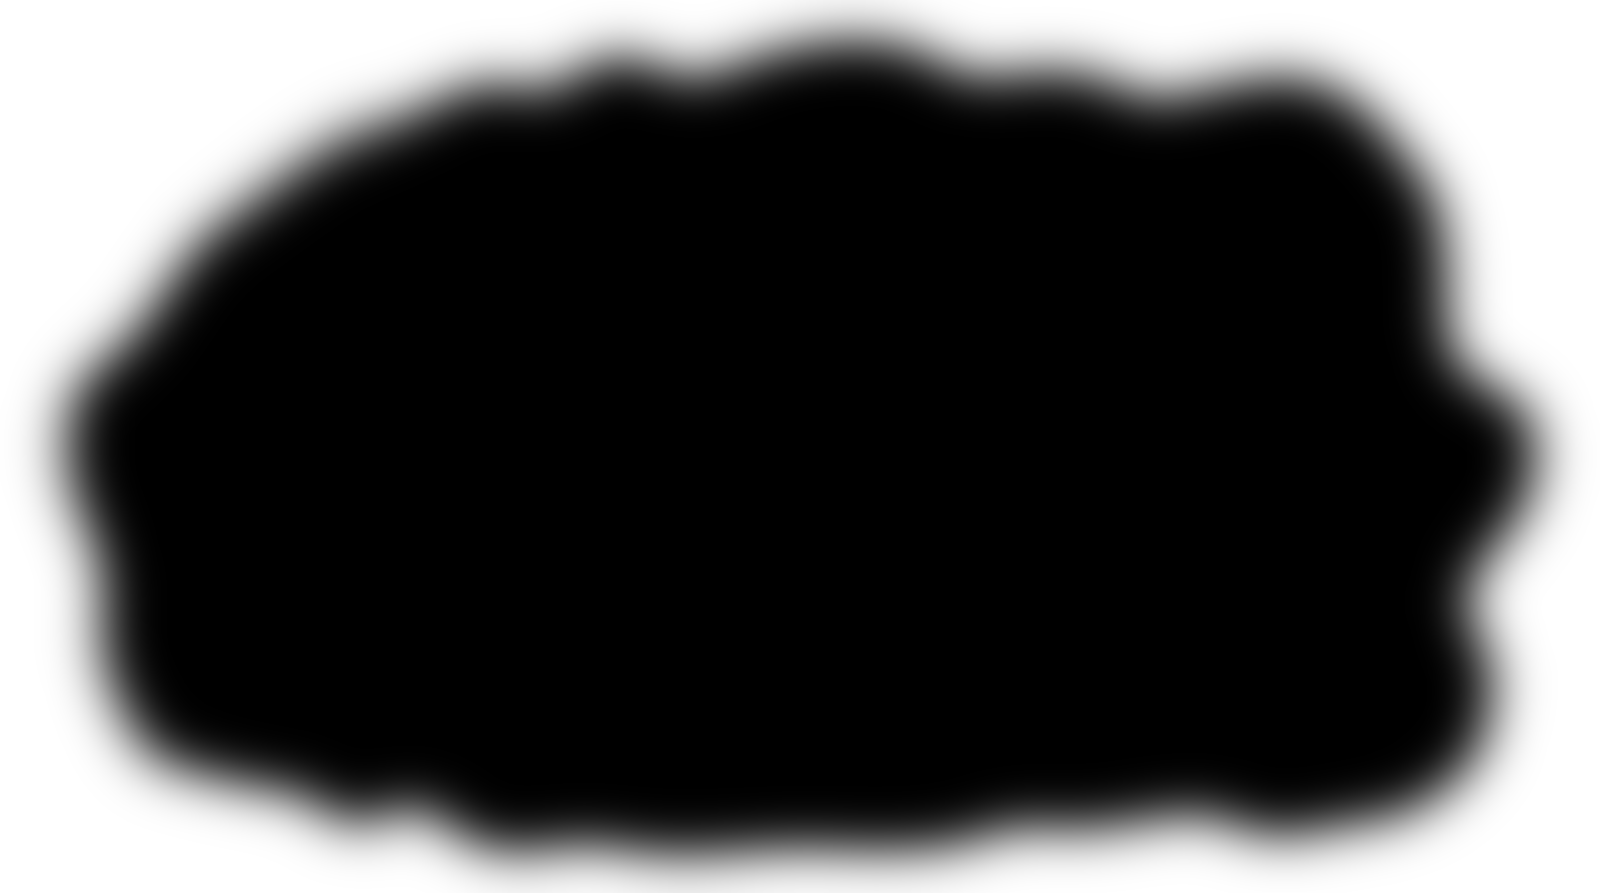
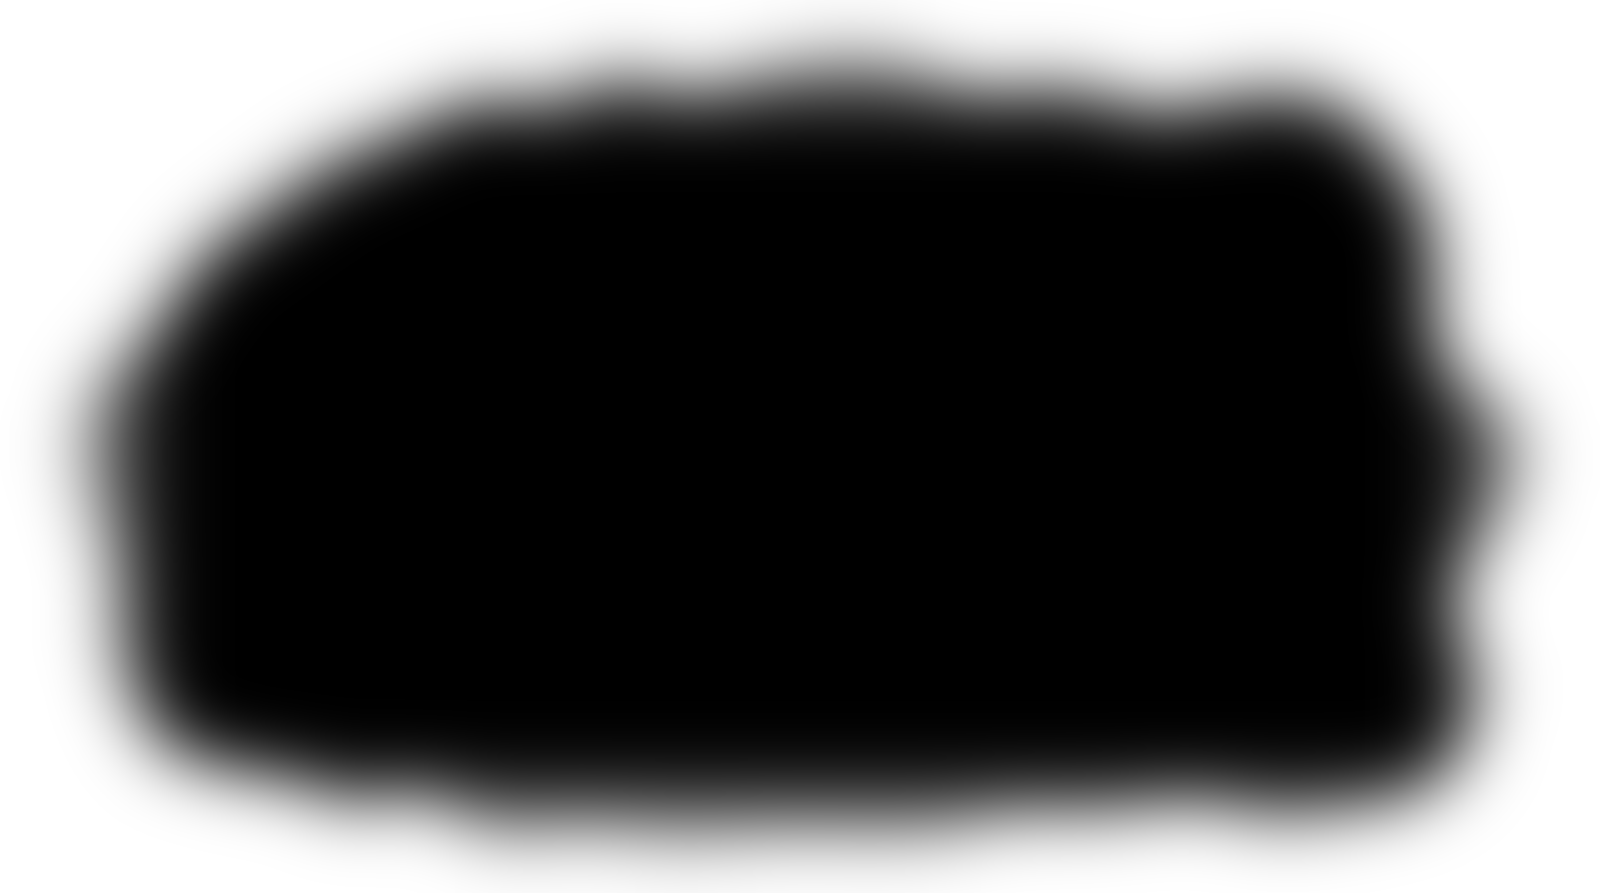
Obrázky putování v tmavém motivu zpět do ztracena (fresková maska přes masku podle tuše)
Claude-Session: https://claude.ai/code/session_01B7obWNd8t3eyi15XpW3dtB

Changed region(s): [[0.0, 0.0, 1.0, 0.9978]]

diff --git a/src/styles/essay.css b/src/styles/essay.css
@@ -900,11 +900,10 @@ html.pv-fresco .essay-hero img.pv-ink {
   mask-composite: intersect;
 }
 
-/* V tmavém motivu by krémový papír kolem tuše svítil jako svatozář: maska dvakrát přes sebe (alfa na druhou)
-   okraj stáhne blíž ke kresbě. */
+/* Tmavý motiv: fresková maska a maska podle tuše přes sebe, kresba se ztrácí do tmy (stav schválený majitelem). */
 html[data-theme='dark'] .essay-hero--live img.has-ink {
-  -webkit-mask-image: var(--pv-mask-ink), var(--pv-mask-ink);
-  mask-image: var(--pv-mask-ink), var(--pv-mask-ink);
+  -webkit-mask-image: var(--pv-mask), var(--pv-mask-ink);
+  mask-image: var(--pv-mask), var(--pv-mask-ink);
   -webkit-mask-size: 100% 100%, 100% 100%;
   mask-size: 100% 100%, 100% 100%;
   -webkit-mask-composite: source-in;

diff --git a/scripts/ink-masks.py b/scripts/ink-masks.py
@@ -44,10 +44,10 @@ for f in (files or sorted(glob.glob(os.path.join(src, '[0-9]*.jpg')))):
         uu = np.linspace(-1, 1, w)[None, :]; vv = np.linspace(-1, 1, h)[:, None]
         win = smooth(1.0, 0.55, np.sqrt((uu / 0.42) ** 2 + ((vv + 0.1) / 0.5) ** 2))
         s = np.maximum(s, big * win)
-    alpha = smooth(0.12, 0.7, s) ** 1.3  # dlouhý pozvolný přechod, okraj se ztrácí uvnitř tuše
+    alpha = smooth(0.25, 0.85, s) ** 1.6  # dlouhý pozvolný přechod, okraj se ztrácí uvnitř tuše
     u = np.linspace(0, 1, w)[None, :]; v = np.linspace(0, 1, h)[:, None]
-    alpha *= smooth(0, 0.06, np.minimum(u, 1 - u)) * smooth(0, 0.07, np.minimum(v, 1 - v))
-    m = Image.fromarray((alpha * 255).astype(np.uint8), 'L').filter(ImageFilter.GaussianBlur(w / 70))
+    alpha *= smooth(0, 0.12, np.minimum(u, 1 - u)) * smooth(0, 0.16, np.minimum(v, 1 - v))
+    m = Image.fromarray((alpha * 255).astype(np.uint8), 'L').filter(ImageFilter.GaussianBlur(w / 50))
     o = Image.new('LA', (w, h), 0); o.putalpha(m)
     name = os.path.basename(f).replace('.jpg', '.png')
     o.save(os.path.join(out, name), optimize=True)

diff --git a/docs/obrazky-putovani.md b/docs/obrazky-putovani.md
@@ -20,7 +20,7 @@ Stav 2026-11-23: styl nalezený po pěti kolech zkoušek (náhled `/putovani/nav
 - Masky: `maska/<slug>-N.png` podle tuše pro tmavý motiv (`python3 scripts/ink-masks.py`, pak zkopírovat z `navrh-obrazku/maska/`, nebo upravit cestu ve skriptu), `maska/freska.png` obecná.
 - Které putování obrázky má: `READY` v `src/lib/trail-images.ts`. Obrázky se ukážou jen u schválené eseje.
 - Rejstřík `/putovani/` má rozvržení karet ve dvou sloupcích s obrázkem nahoře (C, vybráno ze tří variant: A obraz za textem, B střídavé desky). Dokud nemají obrázky všechna putování, stojí vedle karty s obrázkem textové karty.
-- Na webu (2026-11-23): Bohové jako břemeno (katedrála ze žeber, kamenné víčko); Město, které dýchá (domy, které se otáčejí za chodcem; most z dlažby, kořenů, copů a prádla); Dům, ze kterého nejde odejít (měsíc jako zlatá klíčová dírka nad městečkem, okno uprostřed pláně s pokojem uvnitř). Válka, kterou nikdo nevyhraje (tři obrázky: prapory z hejn ptáků, kolotoč z děl, kavalerie z rozbitých hodin se svíčkou v temnu); Pod lhostejnými hvězdami (žebřík opřený o nebe s prázdnými botami a lucernou, gramofon, ze kterého se sypou hvězdy, u táboráku). Postup: 5 motivů, vybrat 2. **Motivy: surrealismus a neobvyklé kompozice, klidně velké měřítko a zachycený pohyb (Magritte, Dalí), neobvyklé spojení předmětů (v duchu Magritta), jen lehce doslovné** — první kolo s doslovnými motivy (tapeta, dveře, kolébka) majitel zamítl jako nenápadité. Do promptu řádek `Mood: subtle surrealism in the spirit of Magritte: one unexpected combination, quiet and uncanny, never literal or explanatory. Rich in discoverable detail: several unexpected secondary motifs are woven into the main forms, so the viewer keeps finding new things on a second look.` Masky: `python3 scripts/ink-masks.py public/putovani-obrazky/<slug>-1.jpg …`; když je světlý papír uprostřed součástí motivu (mezera mezi konci mostu), přidej `--fill`. Skript dělá dvě masky: `<soubor>.png` pro tmavý motiv a širokou `<soubor>-light.png` pro světlý (papír tam schová multiply a lehké vybělení `brightness(1.06) saturate(0.8)`, maska nesmí zamlžit slabé tahy; majitel 2026-11-23). V eseji se kresba ořezává jen maskou podle tuše (fresková maska by ořízla tahy štětce nahoře a stopy u spodního okraje; majitel 2026-11-23), v tmavém motivu je maska dvakrát přes sebe; v rejstříku zůstává i fresková (obrázek je tam oříznutý na 3 : 2).
+- Na webu (2026-11-23): Bohové jako břemeno (katedrála ze žeber, kamenné víčko); Město, které dýchá (domy, které se otáčejí za chodcem; most z dlažby, kořenů, copů a prádla); Dům, ze kterého nejde odejít (měsíc jako zlatá klíčová dírka nad městečkem, okno uprostřed pláně s pokojem uvnitř). Válka, kterou nikdo nevyhraje (tři obrázky: prapory z hejn ptáků, kolotoč z děl, kavalerie z rozbitých hodin se svíčkou v temnu); Pod lhostejnými hvězdami (žebřík opřený o nebe s prázdnými botami a lucernou, gramofon, ze kterého se sypou hvězdy, u táboráku). Postup: 5 motivů, vybrat 2. **Motivy: surrealismus a neobvyklé kompozice, klidně velké měřítko a zachycený pohyb (Magritte, Dalí), neobvyklé spojení předmětů (v duchu Magritta), jen lehce doslovné** — první kolo s doslovnými motivy (tapeta, dveře, kolébka) majitel zamítl jako nenápadité. Do promptu řádek `Mood: subtle surrealism in the spirit of Magritte: one unexpected combination, quiet and uncanny, never literal or explanatory. Rich in discoverable detail: several unexpected secondary motifs are woven into the main forms, so the viewer keeps finding new things on a second look.` Masky: `python3 scripts/ink-masks.py public/putovani-obrazky/<slug>-1.jpg …`; když je světlý papír uprostřed součástí motivu (mezera mezi konci mostu), přidej `--fill`. Skript dělá dvě masky: `<soubor>.png` pro tmavý motiv a širokou `<soubor>-light.png` pro světlý (papír tam schová multiply a lehké vybělení `brightness(1.06) saturate(0.8)`, maska nesmí zamlžit slabé tahy; majitel 2026-11-23). Ve světlém motivu se v eseji kresba ořezává jen širokou maskou (fresková by ořízla tahy štětce nahoře a stopy u spodního okraje); v tmavém motivu zůstává fresková maska přes masku podle tuše, kresba se tak plynule ztrácí do tmy (majitel 2026-11-23 zamítl pokusy s maskou podle obrysu kresby i s ostřejším okrajem); v rejstříku zůstává i fresková (obrázek je tam oříznutý na 3 : 2).
 
 ## Jak generovat
 
